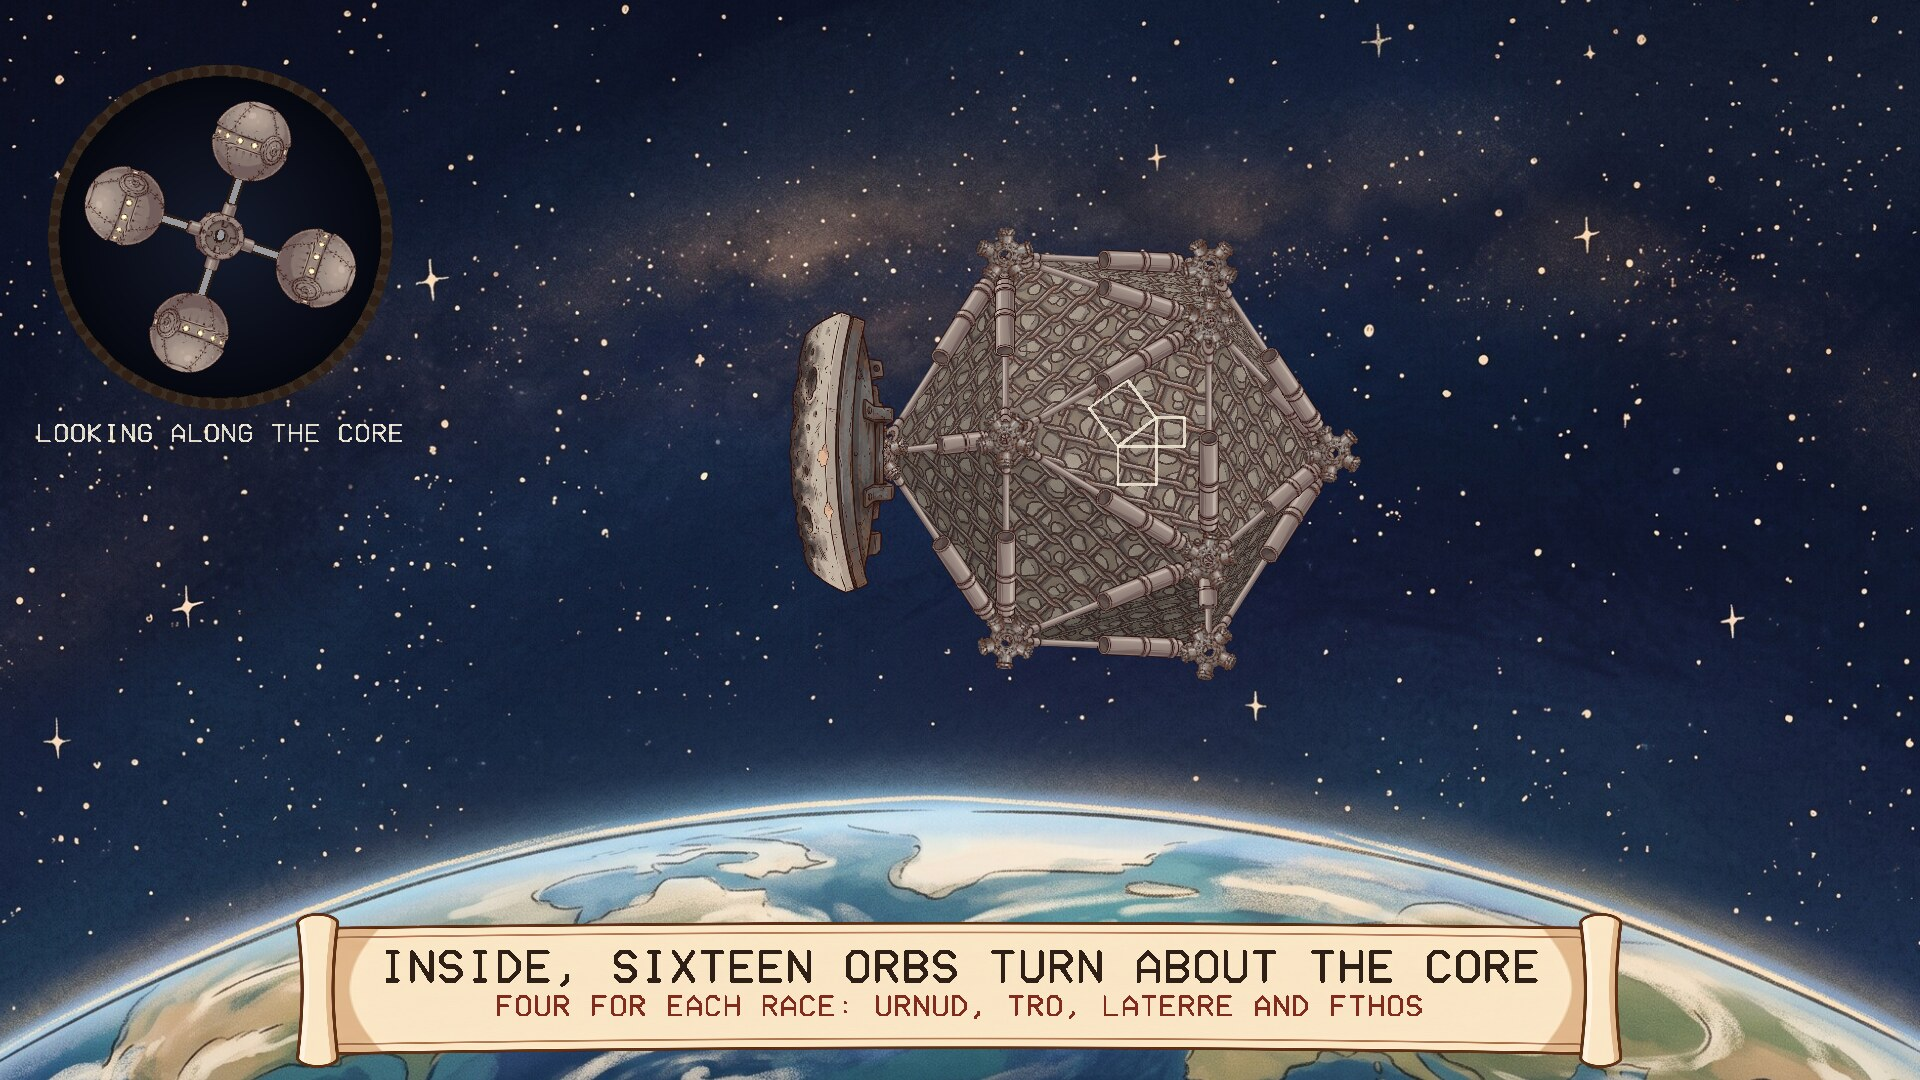
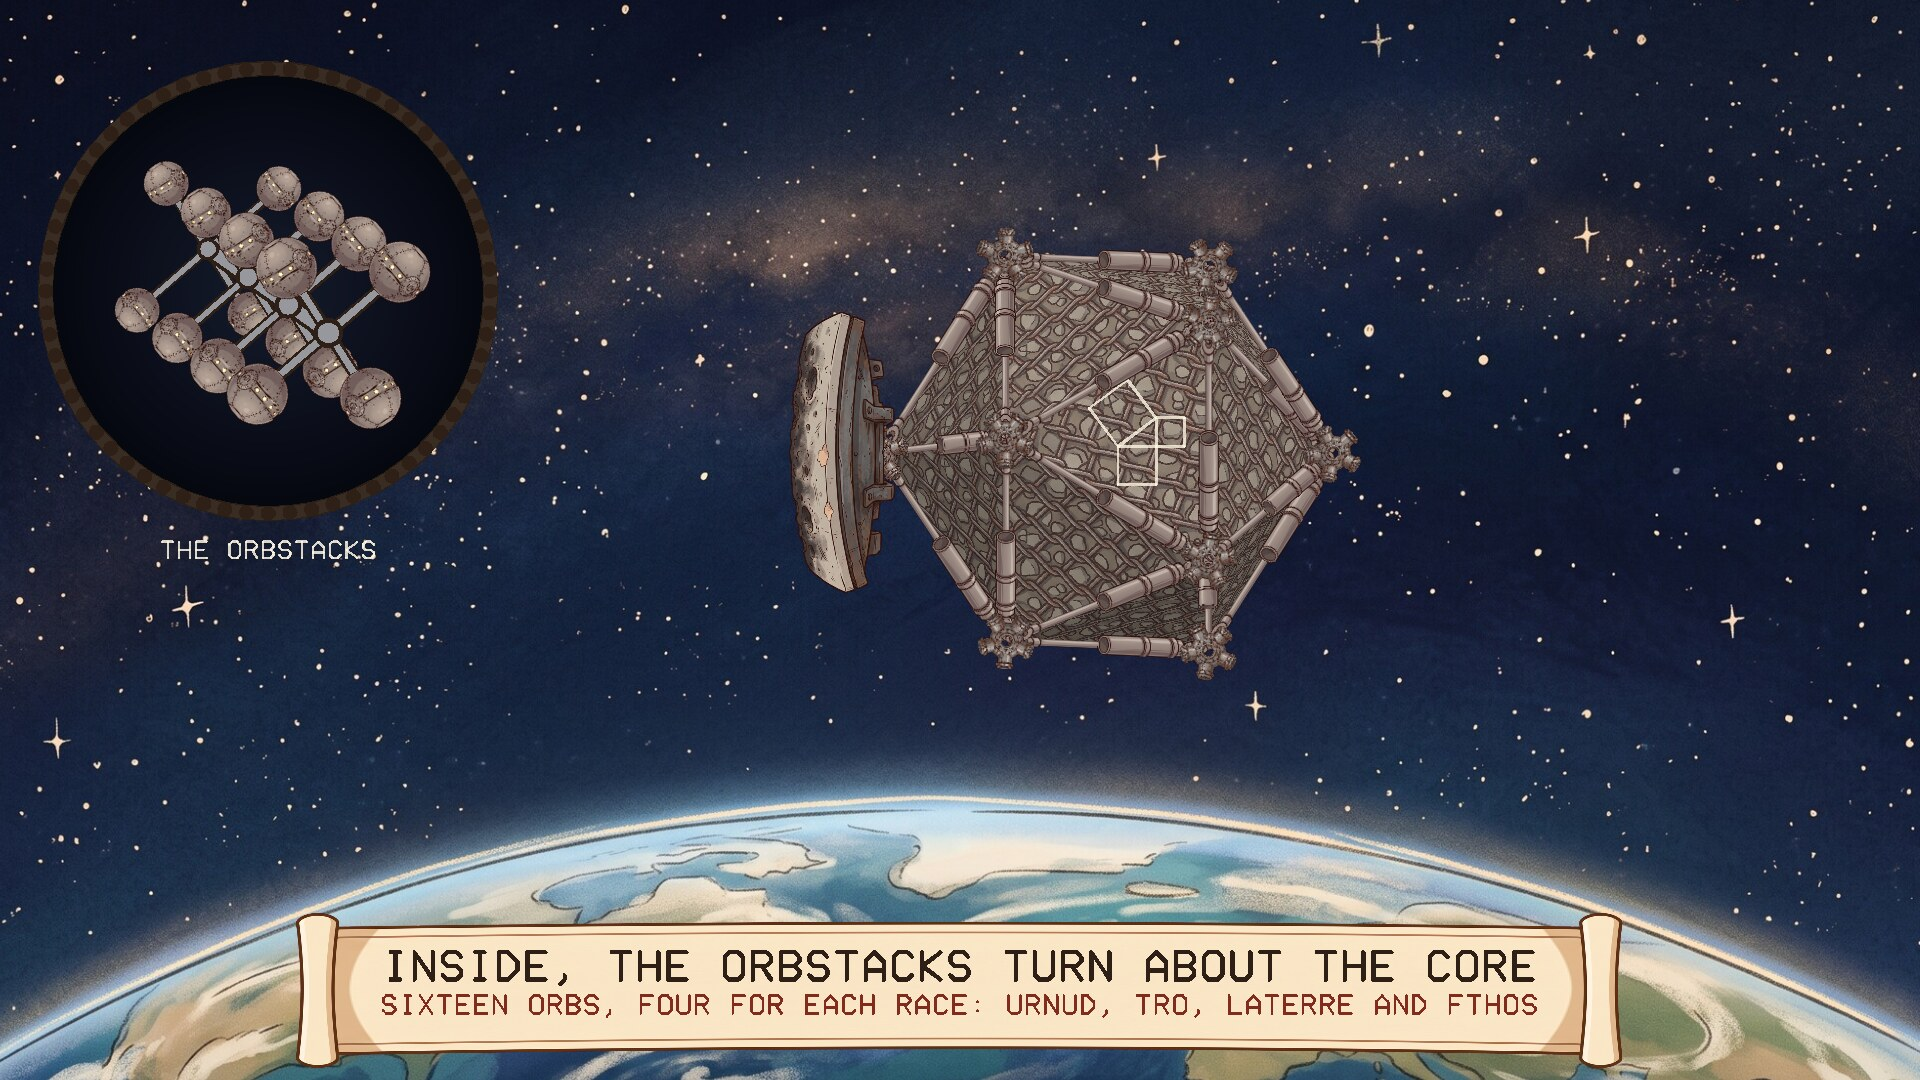
The Core window shows the orbstacks: four rings of four

Changed region(s): [[0.0, 0.0306, 0.2812, 0.5194], [0.1875, 0.8556, 0.8125, 0.9472]]

diff --git a/src/urnud.c b/src/urnud.c
@@ -478,7 +478,7 @@ static void caption(const char **l1, const char **l2)
 {
     static char count[64];
     *l1 = "THE DABAN URNUD"; *l2 = "THE GEOMETERS' SHIP, IN ORBIT ABOUT ARBRE";
-    if (T > 8) { *l1 = "INSIDE, SIXTEEN ORBS TURN ABOUT THE CORE"; *l2 = "FOUR FOR EACH RACE: URNUD, TRO, LATERRE AND FTHOS"; }
+    if (T > 8) { *l1 = "INSIDE, THE ORBSTACKS TURN ABOUT THE CORE"; *l2 = "SIXTEEN ORBS, FOUR FOR EACH RACE: URNUD, TRO, LATERRE AND FTHOS"; }
     if (T >= T_TURN) { *l1 = "A CHANGE OF COURSE"; *l2 = "NO THRUSTERS: COUNTERWEIGHTS ON TRACKS INSIDE SWING IT ROUND"; }
     if (T >= T_BURN - 3) { *l1 = "PROPULSION CHARGES"; *l2 = "ATOMIC BOMBS, LET OUT THROUGH THE PLATE ONE BY ONE"; }
     if (T >= T_BURN + 12) { *l1 = "THIRTY STRUTS, EVERY ONE A SHOCK ABSORBER"; *l2 = "THE BLOW RUNS FORWARD THROUGH THE WHOLE FRAME"; }
@@ -504,23 +504,44 @@ static void draw_caption(int w, int h, const char *l1, const char *l2)
     text(l2, w / 2.0, by + bh * 0.25 + s1 * 6 + unit * 1.2, s2, 0.9, col(CHORD, 1));
 }
 
-/* Looking along the Core, in a round window: one ring of four orbs going round. */
+/* The Core in a round window, seen a little from one side so that the stacks show:
+ * four rings of four orbs, one ring behind another along the Core, all going
+ * round together. */
 static void draw_core(double cx, double cy, double R)
 {
     disc(cx, cy, R * 1.06, col(STEEL, 1), col(STEEL, 1));
     disc(cx, cy, R, col(DEEP, 1), col(BG, 1));
-    double reach = R * 0.62, orb = R * 0.5;
-    for (int i = 0; i < 4; i++) {
-        double a = spin + i * M_PI / 2;
-        line(cx, cy, cx + cos(a) * reach, cy + sin(a) * reach, R * 0.07, col(INK, 1));
-        line(cx, cy, cx + cos(a) * reach, cy + sin(a) * reach, R * 0.04, col(STEEL, 1));
+    /* the Core points out of the picture, down and to the right; z is towards us */
+    double tilt = 0.66, ax = sin(tilt) * 0.82, ay = sin(tilt) * 0.57, az = cos(tilt);
+    double ux = -0.57, uy = 0.82;                              /* across the Core, flat on the screen */
+    double vx = ay * 0 - az * uy, vy = az * ux - ax * 0, vz = ax * uy - ay * ux; /* and the other way across */
+    double reach = R * 0.44, gap = R * 0.37, orb = R * 0.25;
+    for (int k = 0; k < 4; k++) { /* the farthest ring first */
+        double along = (k - 1.5) * gap, hx = cx + ax * along, hy = cy + ay * along;
+        double nx = cx + ax * (along + gap), ny = cy + ay * (along + gap), size = 1 + 0.1 * (k - 1.5);
+        struct { double x, y, z, deg; } o[4];
+        for (int i = 0; i < 4; i++) {
+            double a = spin + i * M_PI / 2, c = cos(a), sn = sin(a);
+            o[i].x = hx + (ux * c + vx * sn) * reach; o[i].y = hy + (uy * c + vy * sn) * reach; o[i].z = vz * sn;
+            o[i].deg = atan2(o[i].y - hy, o[i].x - hx) * 180 / M_PI + 90;
+        }
+        for (int i = 0; i < 4; i++) for (int j = i + 1; j < 4; j++) /* far side of the ring first */
+            if (o[j].z < o[i].z) { double t[4] = {o[i].x, o[i].y, o[i].z, o[i].deg}; o[i] = o[j]; o[j].x = t[0]; o[j].y = t[1]; o[j].z = t[2]; o[j].deg = t[3]; }
+        for (int half = 0; half < 2; half++) {
+            for (int i = half * 2; i < half * 2 + 2; i++) {
+                line(hx, hy, o[i].x, o[i].y, R * 0.05 * size, col(INK, 1));
+                line(hx, hy, o[i].x, o[i].y, R * 0.028 * size, col(STEEL, 1));
+                flush(ren);
+                turned(SP_ORB, o[i].x, o[i].y, orb * size, o[i].deg);
+            }
+            if (half == 0 && k < 3) { /* the Core itself, on to the next ring, between the far orbs and the near */
+                line(hx, hy, nx, ny, R * 0.085, col(INK, 1));
+                line(hx, hy, nx, ny, R * 0.055, col(STEEL, 1));
+            }
+        }
+        disc(hx, hy, R * 0.06 * size, col(INK, 1), col(INK, 1));
+        disc(hx, hy, R * 0.042 * size, col(STEEL, 1), col(STEEL, 1));
     }
-    flush(ren);
-    for (int i = 0; i < 4; i++) {
-        double a = spin + i * M_PI / 2;
-        turned(SP_ORB, cx + cos(a) * reach, cy + sin(a) * reach, orb, a * 180 / M_PI + 90);
-    }
-    turned(SP_HUB, cx, cy, R * 0.44, spin * 180 / M_PI);
     ring(cx, cy, R * 1.03, R * 0.07, col(INK, 0.9));
     flush(ren);
 }
@@ -567,9 +588,9 @@ static void draw_scene(SDL_Renderer *r, int w, int h)
 
     double grow = ease(ramp(T, 6, 9)) * (1 - ease(ramp(T, ROUND - 6, ROUND - 3)));
     if (grow > 0.01) {
-        double R = h * 0.15 * grow, cx = w * 0.115, cy = h * 0.22;
+        double R = h * 0.2 * grow, cx = w * 0.14, cy = h * 0.27;
         draw_core(cx, cy, R);
-        if (grow > 0.9) text("LOOKING ALONG THE CORE", cx, cy + R * 1.16, unit * 0.2, 0.9, col(PAPER, 0.85));
+        if (grow > 0.9) text("THE ORBSTACKS", cx, cy + R * 1.16, unit * 0.2, 0.9, col(PAPER, 0.85));
     }
     const char *l1, *l2;
     caption(&l1, &l2);

diff --git a/README.md b/README.md
@@ -20,8 +20,9 @@ theorem.
 
 One change of course, about a minute and a half, then another at a different angle.
 
-- **In orbit.** The ship coasts over Arbre. A round window looks along the Core at
-  one ring of four orbs going round; they never stop.
+- **In orbit.** The ship coasts over Arbre. A round window shows the orbstacks inside:
+  four rings of four orbs, one behind another along the Core, all going round.
+  They never stop.
 - **The turn.** No thrusters. Counterweights run round tracks inside the ship,
   out of sight, and the ship swings round the other way.
 - **The burn.** A charge drops out through the plate every second or two, flies a
@@ -37,7 +38,7 @@ springs. Nothing about how it flexes is a canned animation.
 | | |
 |---|---|
 | ![](docs/screenshots/02-the-orbs.jpg) | ![](docs/screenshots/03-the-turn.jpg) |
-| The orbs, seen along the Core | The ship turning |
+| The orbstacks about the Core | The ship turning |
 | ![](docs/screenshots/04-charge-away.jpg) | ![](docs/screenshots/06-the-frame-takes-it.jpg) |
 | A charge on its way out | The frame takes the blast |
 
@@ -62,7 +63,7 @@ Packages are on the [releases page](../../releases).
 
 ### Windows
 
-Run `DabanUrnud-Setup-1.0.1.exe`. It asks for administrator rights, because Windows
+Run `DabanUrnud-Setup-1.0.2.exe`. It asks for administrator rights, because Windows
 only lists screensavers that are in its own system folder. After that "The Daban
 Urnud" is in Screen Saver Settings with the others, already selected. Uninstall from
 Apps.
@@ -71,11 +72,11 @@ Apps.
 
 **Fedora, Nobara** (built on Fedora 44):
 
-    sudo dnf install ./daban-urnud-1.0.1-1.fc44.x86_64.rpm
+    sudo dnf install ./daban-urnud-1.0.2-1.fc44.x86_64.rpm
 
 **Debian, Ubuntu, Mint** (Ubuntu 24.04 / Debian 13 or later):
 
-    sudo apt install ./daban-urnud_1.0.1_amd64.deb
+    sudo apt install ./daban-urnud_1.0.2_amd64.deb
 
 From your next login it starts by itself after five minutes idle, and any key or
 mouse movement ends it. To start the watcher without logging out, or to change the
